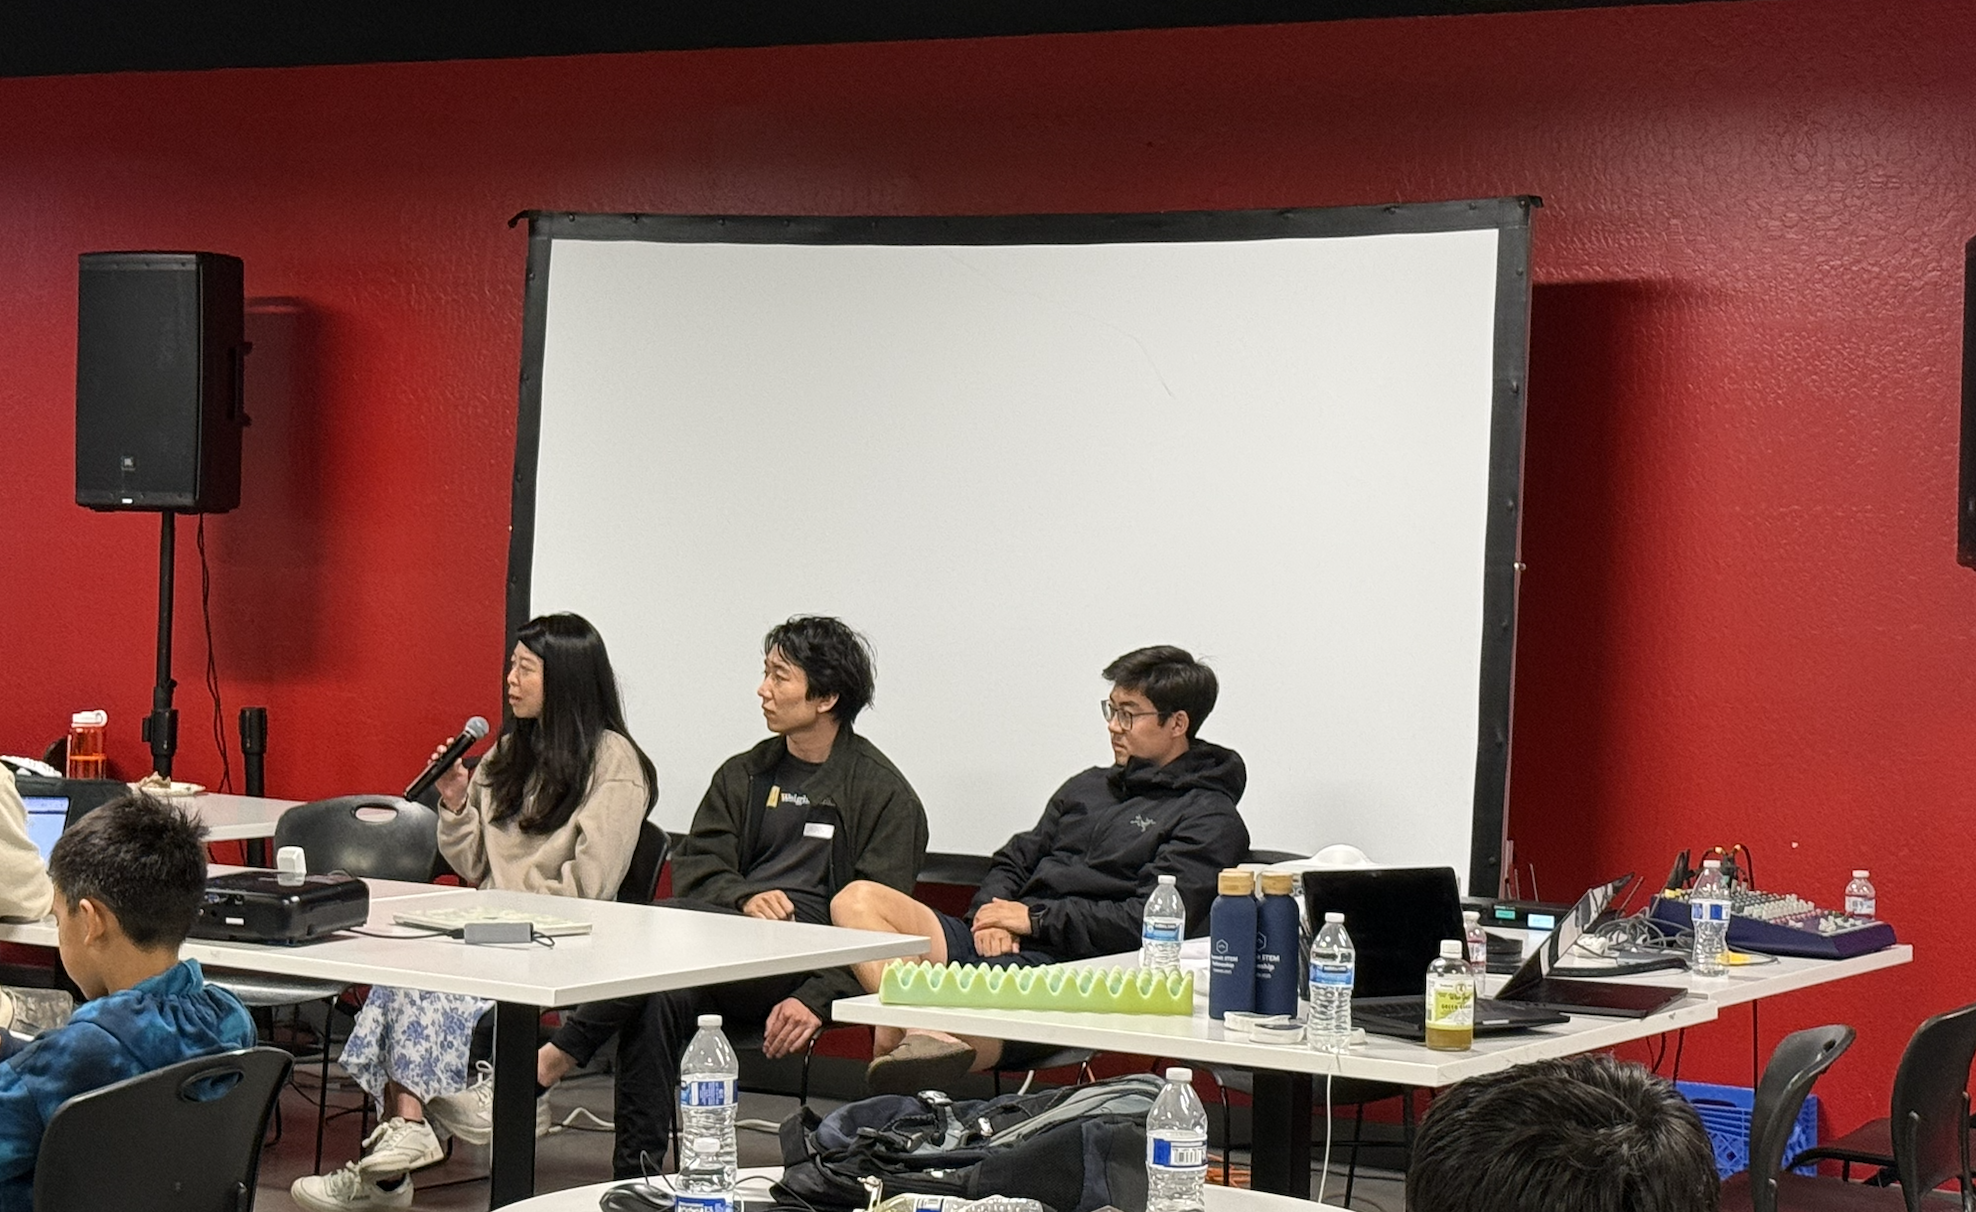
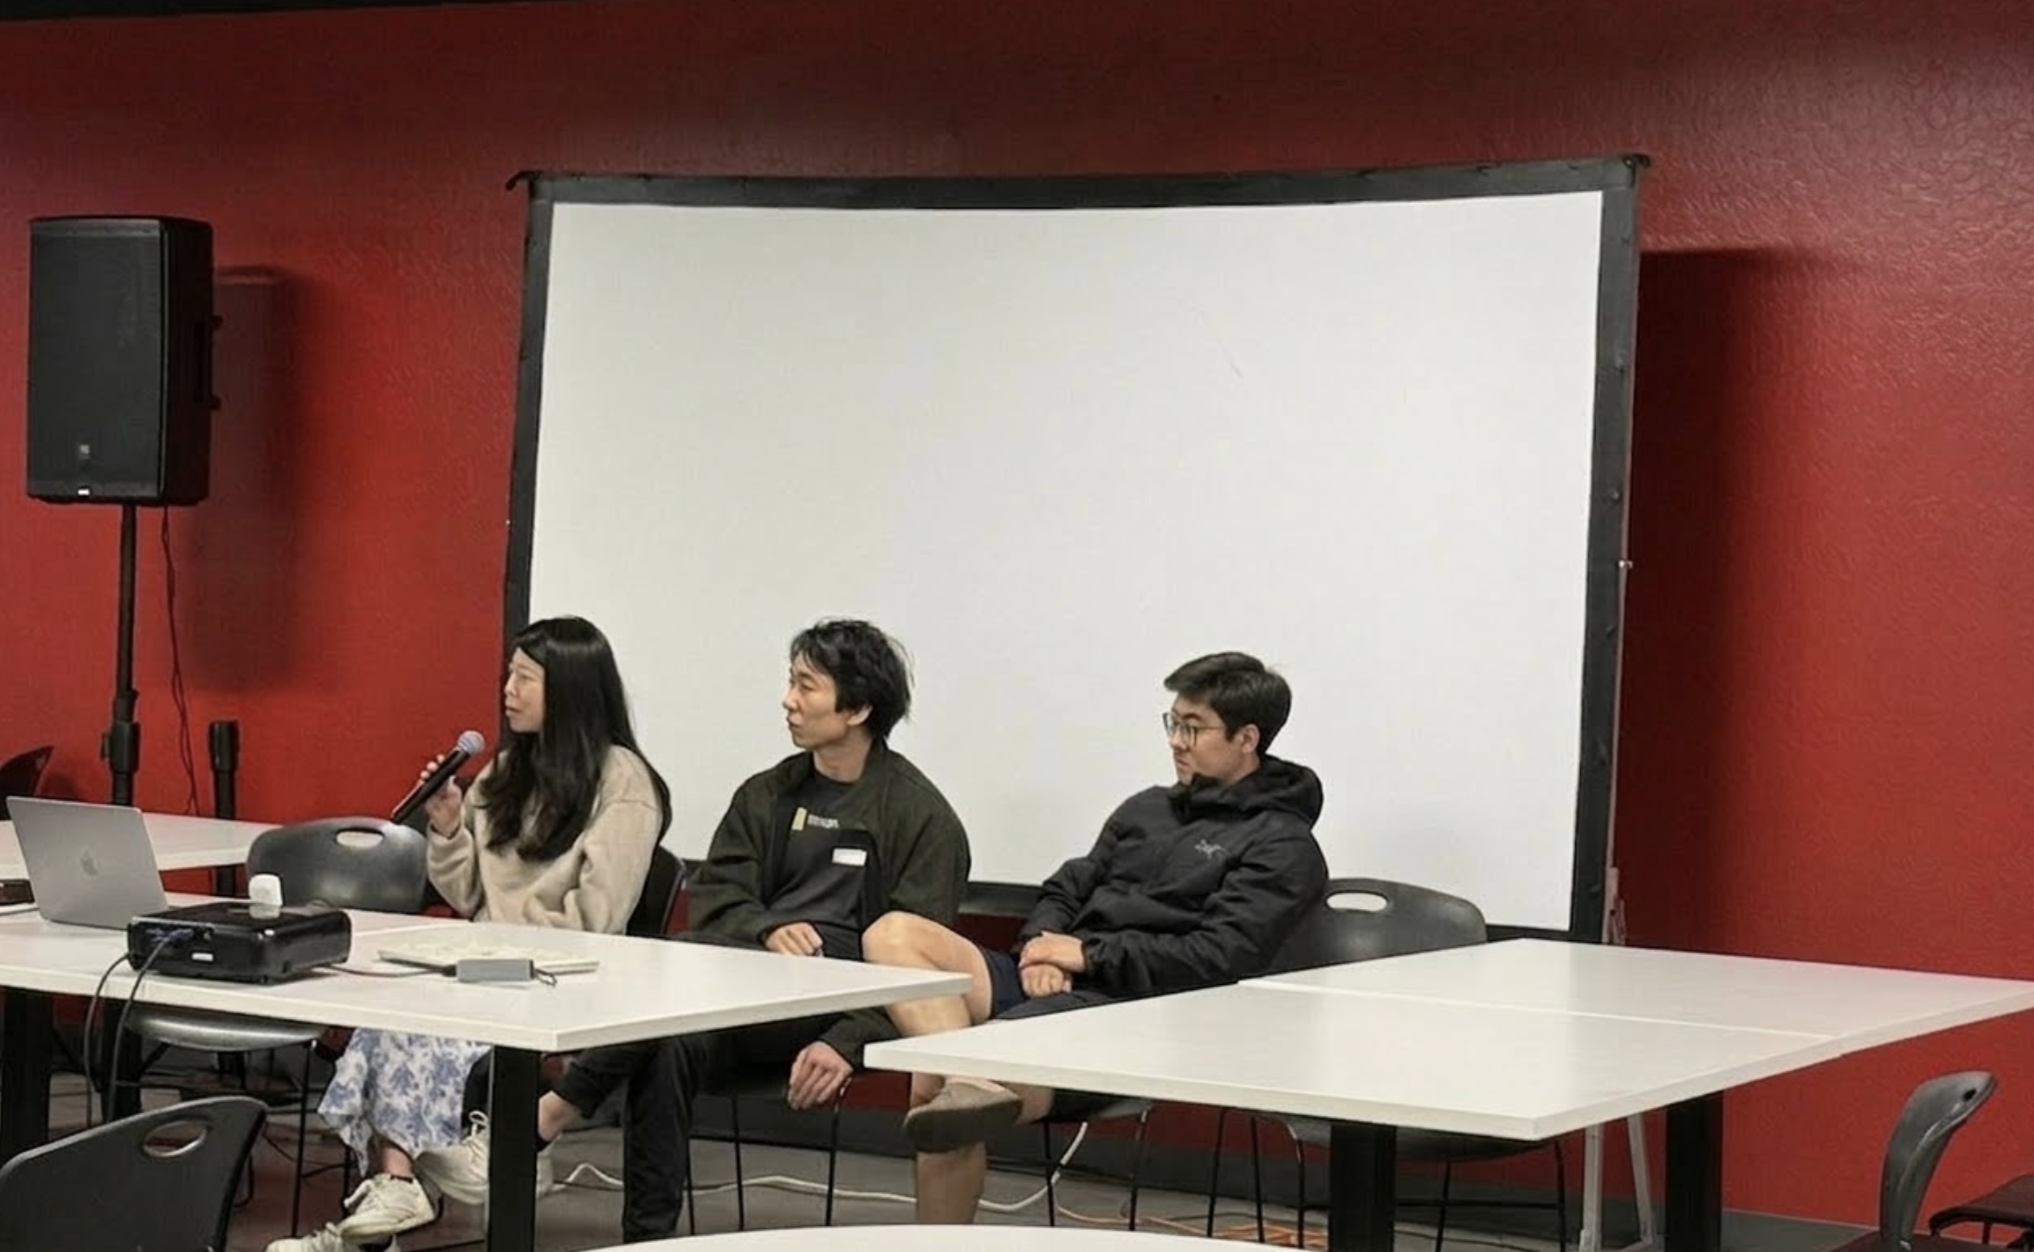
added prizes, improved images for speakers

diff --git a/index.html b/index.html
@@ -347,6 +347,7 @@
                     <li>YRI credit $1.5k</li>
                     <li>ElevenLabs 3 months pro tier</li>
                     <li>codecrafters.io 2-year VIP membership</li>
+                    <li>Opennote 1 Year of Scholar Subscription</li>
                     <li>.xyz domains</li>
                 </ul>
             </div>
@@ -366,6 +367,7 @@
                     <li>Guaranteed YRI Admission</li>
                     <li>YRI credit $1.5k</li>
                     <li>codecrafters.io 1-year VIP membership</li>
+                    <li>Opennote 3 Months of Scholar Subscription</li>
                 </ul>
             </div>
 
@@ -477,7 +479,7 @@
 
                     <ul class="space-y-2 text-slate-300 text-sm list-disc list-inside marker:text-red-400">
                         <li class="font-extrabold">$50 in Cash</li>
-                        <li>Opennote Prize</li>
+                        <li>Opennote 1 Year of Scholar Subscription</li>
                         <li>AoPS certificates (If available)</li>
                         <li>CleanshotX license for everyone</li>
                         <li>.xyz domains</li>
@@ -1073,7 +1075,7 @@
                 <img src="images/2026/gallery/10.png" class="w-full h-64 object-cover transition-transform duration-500 group-hover:scale-105">
                 <div class="absolute inset-0 bg-gradient-to-t from-black/80 via-black/20 to-transparent"></div>
                 <div class="absolute bottom-0 p-4 text-slate-100 text-sm font-medium">
-                    Guest speakers engaging with participants
+                    Guest speakers from Stanford, Harvard, & UIUC engaging with participants
                 </div>
             </div>
 
@@ -1082,7 +1084,15 @@
                 <img src="images/2026/gallery/11.png" class="w-full h-64 object-cover transition-transform duration-500 group-hover:scale-105">
                 <div class="absolute inset-0 bg-gradient-to-t from-black/80 via-black/20 to-transparent"></div>
                 <div class="absolute bottom-0 p-4 text-slate-100 text-sm font-medium">
-                    Guest speakers engaging with participants
+                    Guest speaker engaging with participants
+                </div>
+            </div>
+            <div class="group relative rounded-2xl overflow-hidden border border-slate-800 bg-slate-900 shadow-sm hover:shadow-2xl transition-all duration-300 cursor-pointer hover:-translate-y-2"
+            >
+                <img src="images/2026/gallery/12.png" class="w-full h-64 object-cover transition-transform duration-500 group-hover:scale-105">
+                <div class="absolute inset-0 bg-gradient-to-t from-black/80 via-black/20 to-transparent"></div>
+                <div class="absolute bottom-0 p-4 text-slate-100 text-sm font-medium">
+                    Guest speakers from YC-Backed Opennote answer questions from participants
                 </div>
             </div>
 
